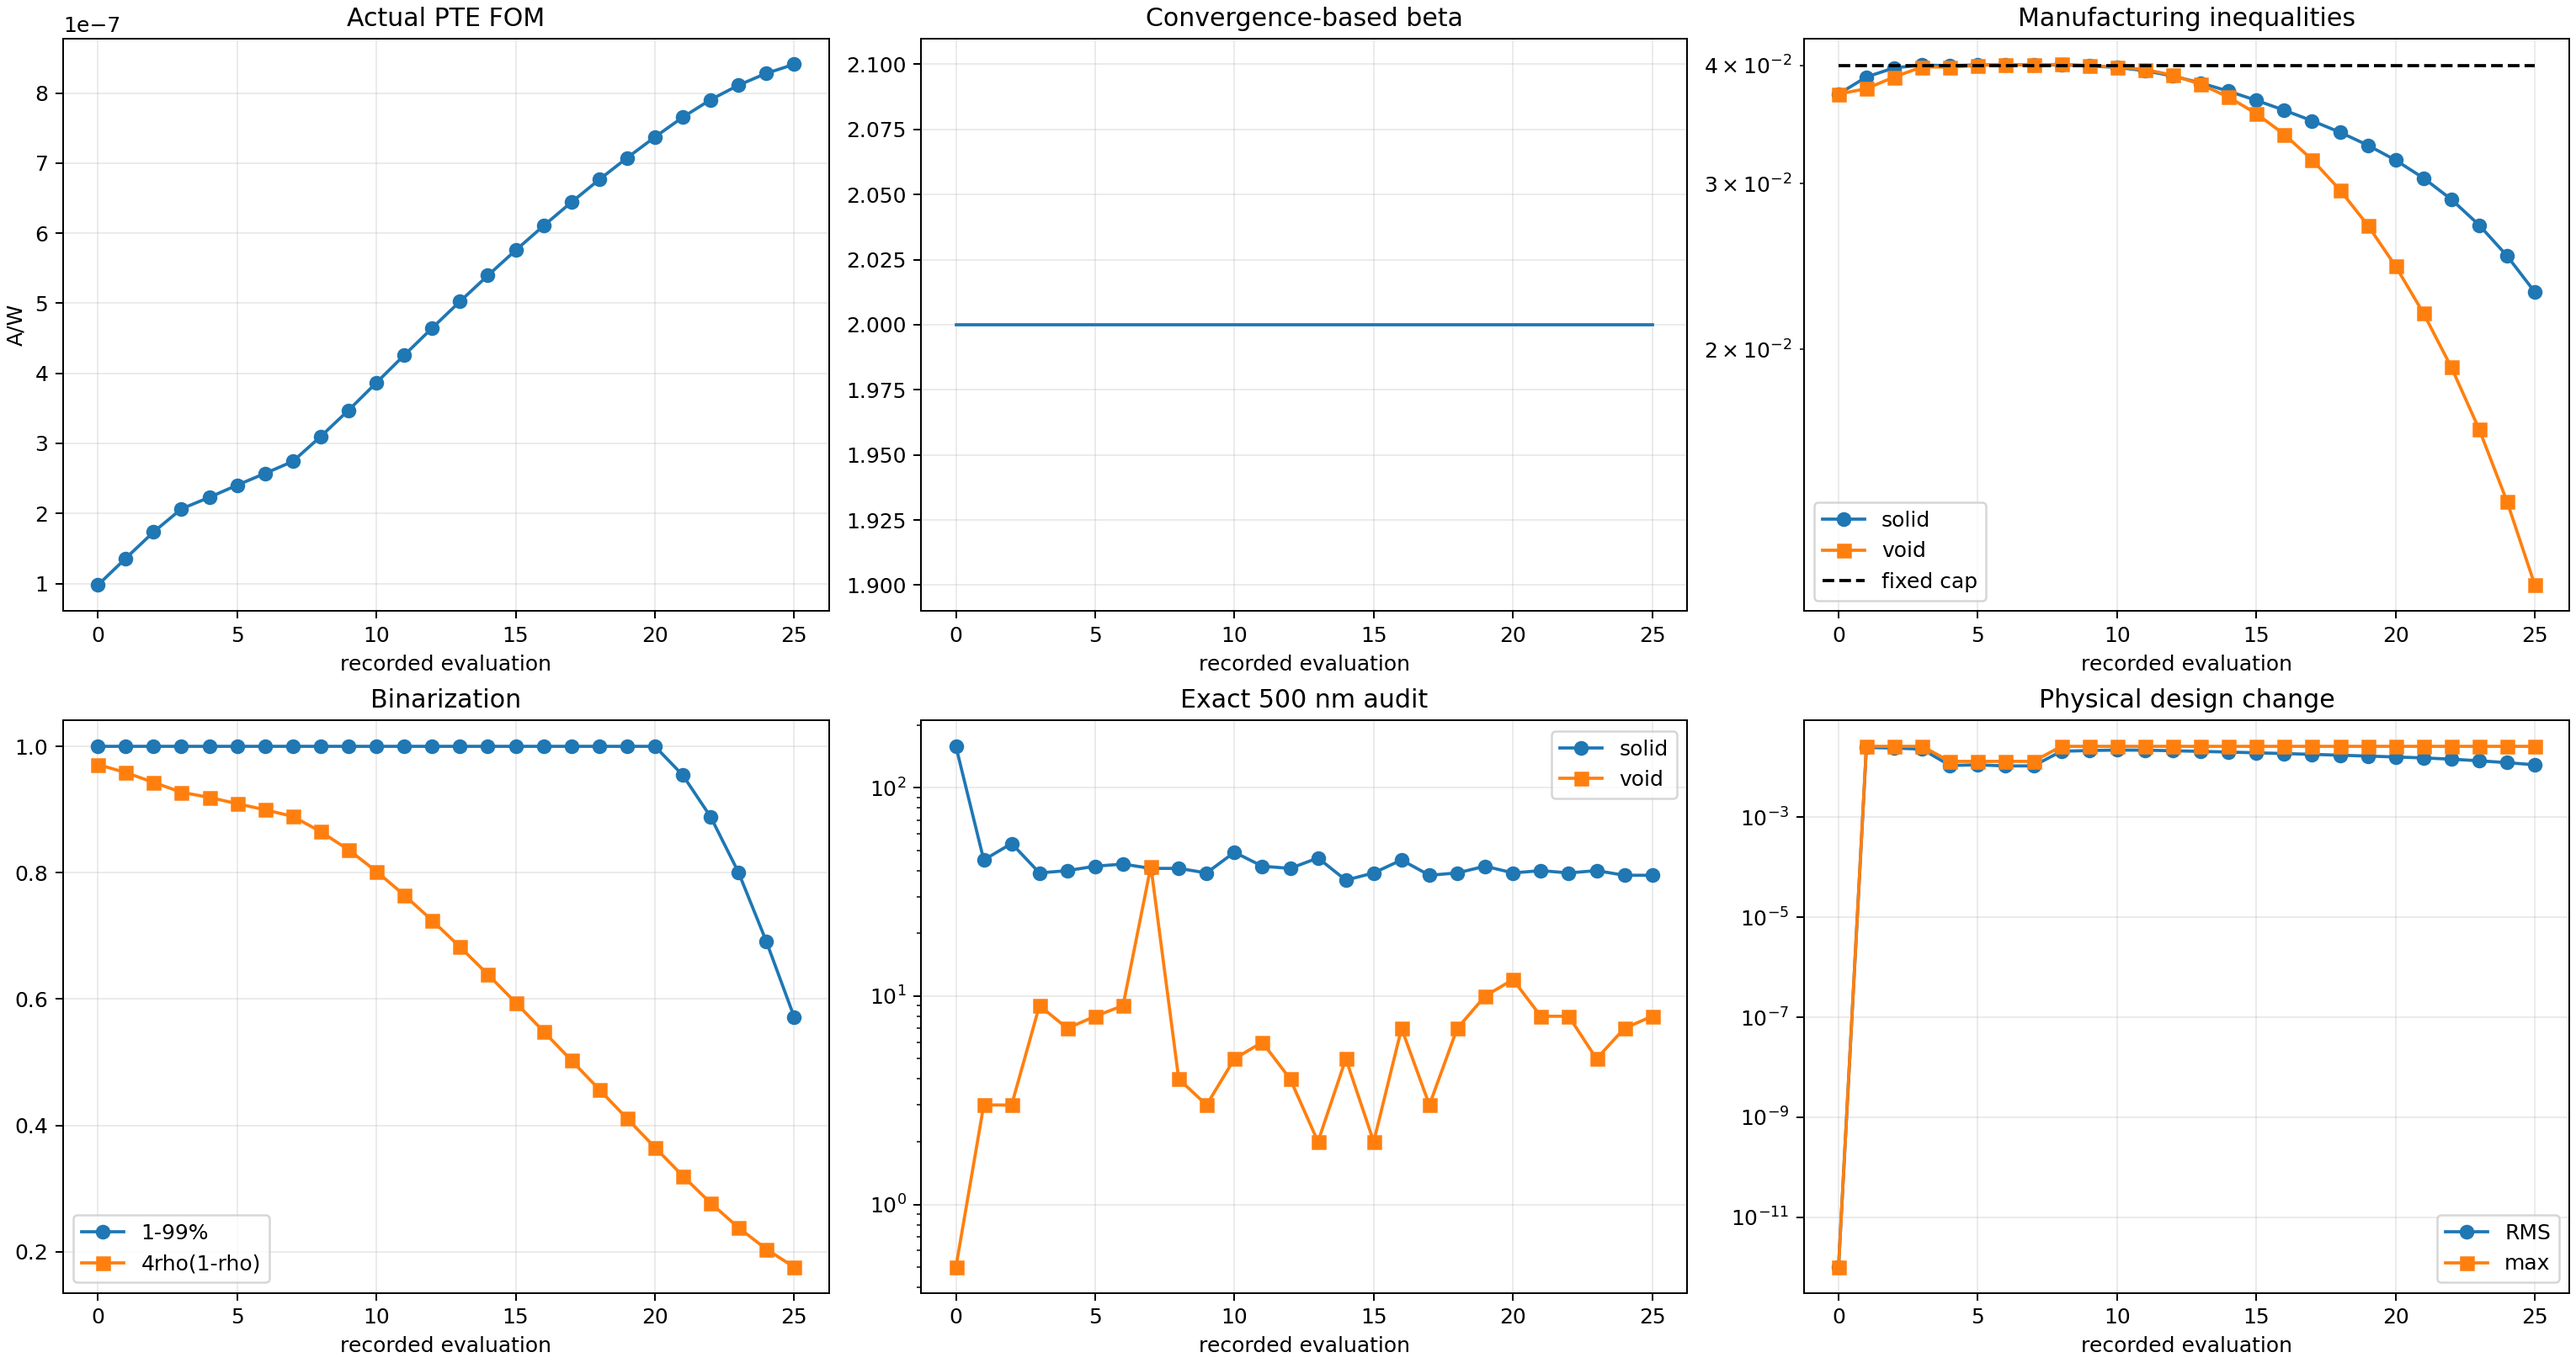
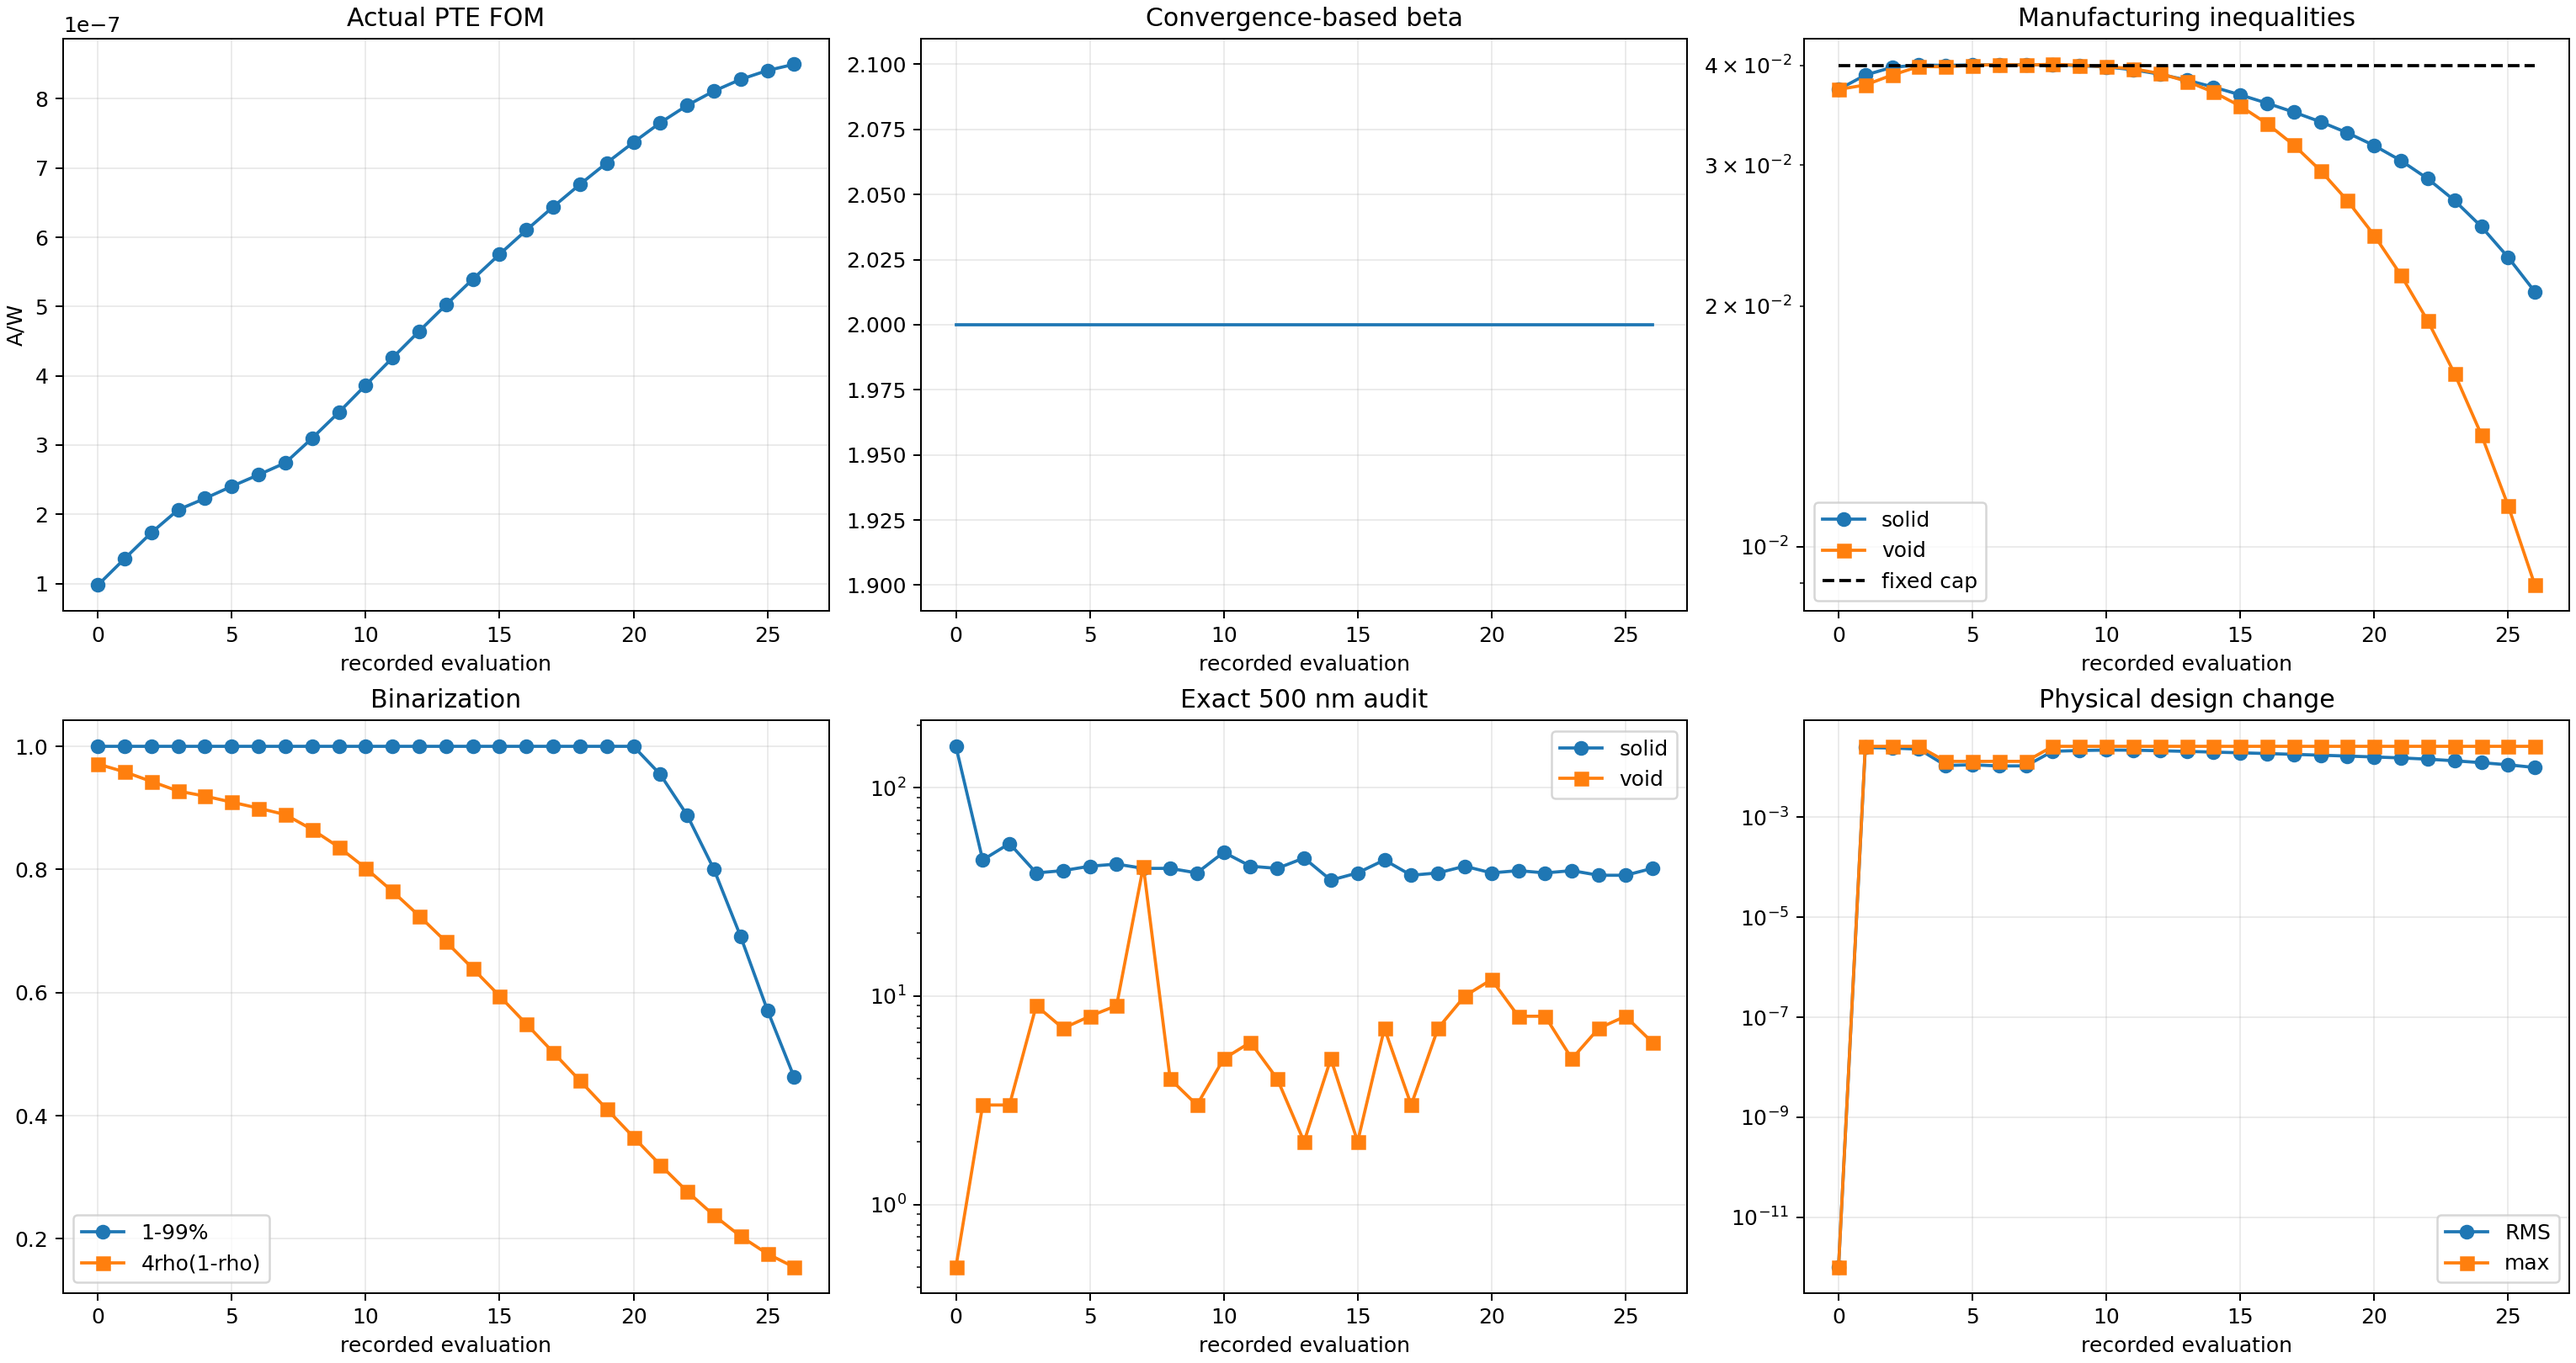
Record Run 003 run003_b002_s026_g026_accepted_mma

diff --git a/photothermal_pte/optimization_runs/run_003_gaussian10_w8p5_current_max_converged/results/OPTIMIZATION_REPORT.md b/photothermal_pte/optimization_runs/run_003_gaussian10_w8p5_current_max_converged/results/OPTIMIZATION_REPORT.md
@@ -2,10 +2,10 @@
 
 Status: `RUNNING_CONVERGENCE_BASED_CONSTRAINED_BETA_CONTINUATION`
 
-Current stage: beta=2, accepted stage iteration=25, global iteration=25.
+Current stage: beta=2, accepted stage iteration=26, global iteration=26.
 
-Actual FOM: `8.408831828400e-07 A/W`. Fixed-cap solid/void constraints: `2.301130e-02` / `1.125488e-02` with cap `4.000000e-02`.
+Actual FOM: `8.497590376256e-07 A/W`. Fixed-cap solid/void constraints: `2.083565e-02` / `8.947003e-03` with cap `4.000000e-02`.
 
-Exact 500 nm bad cells: solid `38`, void `8`. Stage convergence: `False` (recent FOM/density changes have not plateaued).
+Exact 500 nm bad cells: solid `41`, void `6`. Stage convergence: `False` (recent FOM/density changes have not plateaued).
 
 Beta is promoted only after fixed-inequality feasibility and a four-update FOM/design plateau; it is never promoted after one nominal update.
